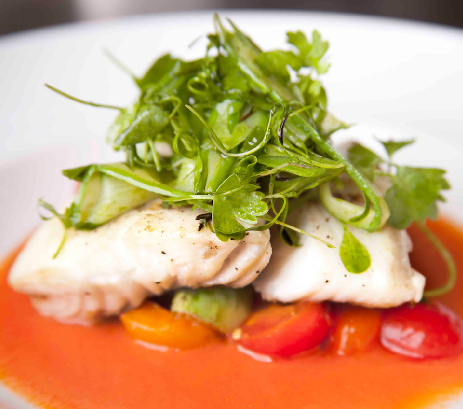
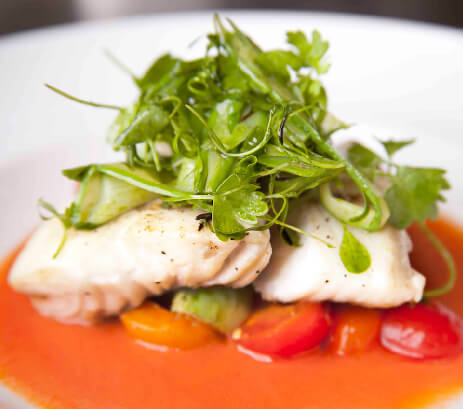
seo, optimization updates

diff --git a/src/components/MenuList.vue b/src/components/MenuList.vue
@@ -11,7 +11,8 @@
                     <MenuItem 
                         v-for="dish in category.dishes" 
                         :key="dish.id" 
-                        :menuItemImage="dish.image" 
+                        :menuItemImage="dish.image"
+                        :menuItemAltImage="dish.name"  
                         :menuItemName="dish.name" 
                         :menuItemDescription="dish.description"
                         :menuItemPrecio="dish.precio" />
@@ -48,7 +49,7 @@ export default {
                                 id: "2",
                                 image: require("@/assets/dishes/img-dish-02.jpg"),
                                 name: "Aguachile",
-                                 description: "Cras sit amet elit neque. Vivamus quis porta diam. Interdum et malesuada fames ac ante ipsum primis in faucibus. Phasellus efficitur finibus elit ac porta.",
+                                description: "Cras sit amet elit neque. Vivamus quis porta diam. Interdum et malesuada fames ac ante ipsum primis in faucibus. Phasellus efficitur finibus elit ac porta.",
                                 precio: "13,00 €"
                             }
                         ]
@@ -61,7 +62,7 @@ export default {
                                 id: "3",
                                 image: require("@/assets/dishes/img-dish-03.jpg"),
                                 name: "Pulpo al Ajillo",
-                                 description: "Cras sit amet elit neque. Vivamus quis porta diam. Interdum et malesuada fames ac ante ipsum primis in faucibus. Phasellus efficitur finibus elit ac porta.",
+                                description: "Cras sit amet elit neque. Vivamus quis porta diam. Interdum et malesuada fames ac ante ipsum primis in faucibus. Phasellus efficitur finibus elit ac porta.",
                                 precio: "22,00 €"
                             },
                             {
@@ -81,7 +82,7 @@ export default {
                                 id: "5",
                                 image: require("@/assets/dishes/img-dish-06.jpg"),
                                 name: "Chocolate cake",
-                                 description: "Cras sit amet elit neque. Vivamus quis porta diam. Interdum et malesuada fames ac ante ipsum primis in faucibus. Phasellus efficitur finibus elit ac porta.",
+                                description: "Cras sit amet elit neque. Vivamus quis porta diam. Interdum et malesuada fames ac ante ipsum primis in faucibus. Phasellus efficitur finibus elit ac porta.",
                                 precio: "10,00 €"
                             },
                             {

diff --git a/src/components/MenuItem.vue b/src/components/MenuItem.vue
@@ -1,7 +1,7 @@
 <template>
     <li class="item-menu">
         <div>
-            <img :src="menuItemImage" />
+            <img :src="menuItemImage" :alt="menuItemAltImage" />
         </div>
         <div class="text-container">
             <h3 class="title3">{{ menuItemName }}</h3>
@@ -19,6 +19,7 @@ export default {
         menuItemName: String,
         menuItemDescription: String,
         menuItemPrecio: String,
+        menuItemAltImage: String,
     }
 };
 </script>

diff --git a/src/components/DishItem.vue b/src/components/DishItem.vue
@@ -1,6 +1,6 @@
 <template>
     <div class="item-card">
-        <img :src="dishImage" />
+        <img :src="dishImage" :alt="dishAltImage" />
         <h3 class="title3">{{ dishName }}</h3>
         <p class="p2">{{ dishDescription }}</p>
     </div>
@@ -12,7 +12,8 @@ export default {
     props: {
         dishImage: String,
         dishName: String,
-        dishDescription: String
+        dishDescription: String,
+        dishAltImage: String
     }
 };
 </script>

diff --git a/src/components/FavoriteDishes.vue b/src/components/FavoriteDishes.vue
@@ -8,7 +8,8 @@
                     :key="dish.id" >
                         <DishItem
                             class="carousel__item" 
-                            :dishImage="dish.image" 
+                            :dishImage="dish.image"
+                            :dishAltImage="dish.name"  
                             :dishName="dish.name" 
                             :dishDescription="dish.description" />
                 </Slide>

diff --git a/src/components/ContactInfo.vue b/src/components/ContactInfo.vue
@@ -2,7 +2,7 @@
     <section>
         <div class="coll-full max-width-small">
             <div class="image-container">
-                <img src="@/assets/contact-image.jpg" />
+                <img src="@/assets/contact-image.jpg" alt="Book table" />
             </div>
             <div class="text-container">
                 <h2 class="title2 align-left">Book now</h2>

diff --git a/src/components/ChefDescription.vue b/src/components/ChefDescription.vue
@@ -2,7 +2,7 @@
     <section>
         <div class="coll-full">
             <div class="image-container">
-                <img src="@/assets/chef.jpg" />
+                <img src="@/assets/chef.jpg" alt="The Chef" />
             </div>
             <div class="text-container">
                 <h3 class="title2">The Chef</h3>
